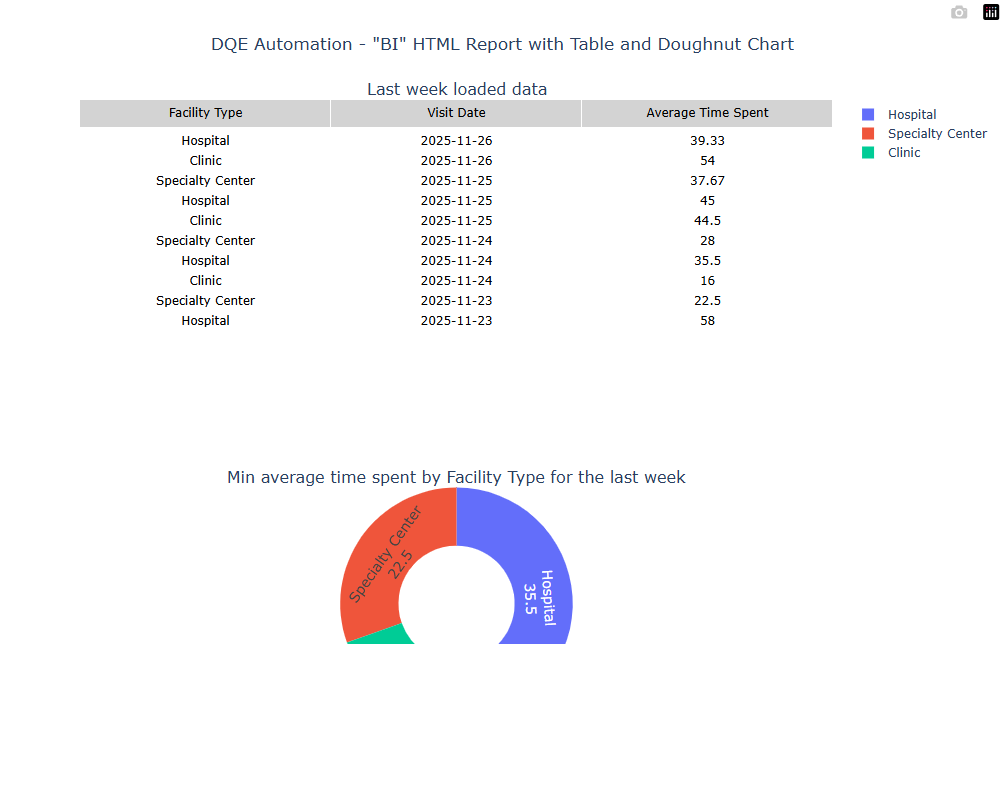
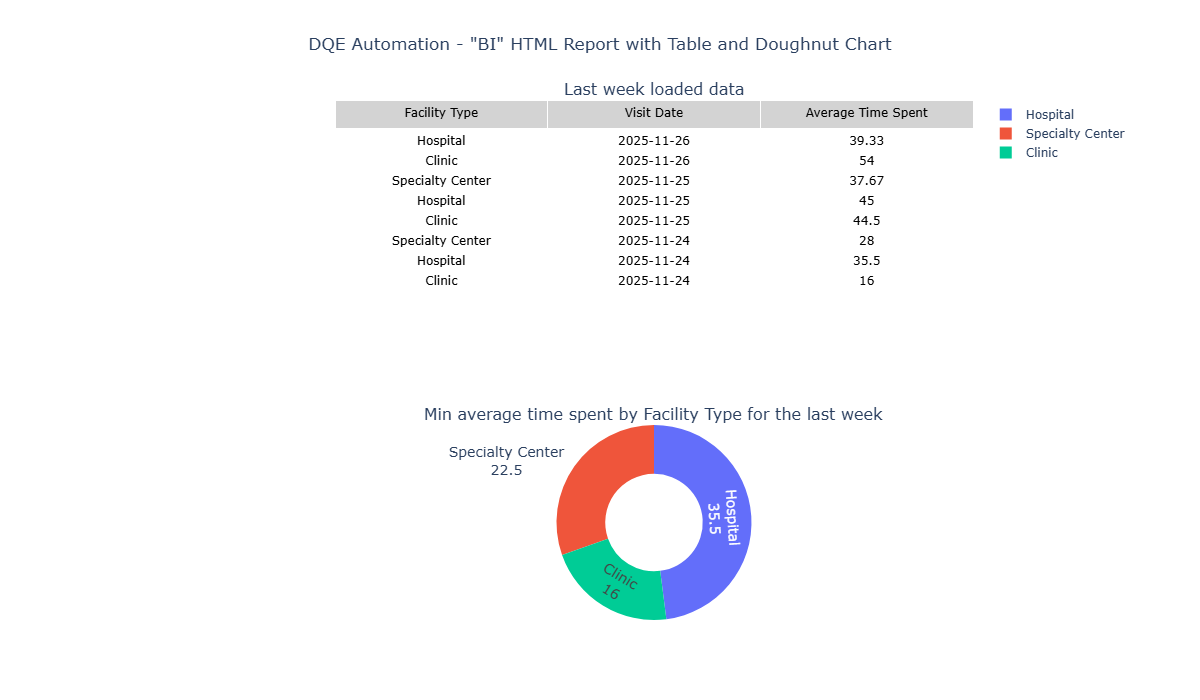
selenium7

Changed region(s): [[0.0618, 0.03, 0.988, 0.42], [0.2161, 0.57, 0.741, 0.9], [0.9263, 0.0, 1.0, 0.03]]

diff --git a/Selenium Introduction/main.py b/Selenium Introduction/main.py
@@ -10,23 +10,40 @@ from selenium.webdriver.support import expected_conditions as EC
 from selenium.webdriver import Chrome
 from selenium.webdriver.chrome.options import Options
 
+import base64
+
 GRAPH_ID = "f2be9861-78e2-4f00-aa5f-9778ee33830a"
+
+def screenshot_plotly_to_image(driver, graph, out_path):
+    data_uri = driver.execute_script("""
+        const el = arguments[0];
+        return Plotly.toImage(el, {format:'png', width:1200, height:700});
+    """, graph)
+    b64 = data_uri.split(",", 1)[1]
+    with open(out_path, "wb") as f:
+        f.write(base64.b64decode(b64))
 
 # ---------- Driver & Page ----------
 
-def init_driver(headless: bool = False) -> Tuple[webdriver.Edge, WebDriverWait]:
+def init_driver(headless: bool = False) -> Tuple[webdriver.Chrome, WebDriverWait]:
     try:
         opts = Options()
         # driver = webdriver.Edge(options=opts)
         driver = Chrome(options=opts)
+
+        driver.execute_cdp_cmd("Emulation.setDeviceMetricsOverride", {
+            "width": 1600,  # достатній розмір
+            "height": 1200,
+            "deviceScaleFactor": 1,  # без масштабування
+            "mobile": False,
+        })
         wait = WebDriverWait(driver, 20)
         return driver, wait
     except Exception as e:
         print(f"❌ Driver initialization failed: {e}")
         raise
 
-
-def open_page(driver: webdriver.Edge, report_path: str) -> None:
+def open_page(driver: webdriver.Chrome, report_path: str) -> None:
     try:
         driver.get(os.path.abspath(report_path))
     except Exception as e:
@@ -70,7 +87,7 @@ def capture(target, fallback, filename: str) -> None:
 
 # ---------- Plotly helpers ----------
 
-def js_get_pie_state(driver: webdriver.Edge, graph_el) -> Dict[str, Any]:
+def js_get_pie_state(driver: webdriver.Chrome, graph_el) -> Dict[str, Any]:
     try:
         return driver.execute_script("""
           const el = arguments[0];
@@ -91,7 +108,7 @@ def js_get_pie_state(driver: webdriver.Edge, graph_el) -> Dict[str, Any]:
         raise
 
 
-def js_set_hiddenlabels(driver: webdriver.Edge, graph_el, hidden: List[str]) -> None:
+def js_set_hiddenlabels(driver: webdriver.Chrome, graph_el, hidden: List[str]) -> None:
     try:
         driver.execute_script("""
           const el = arguments[0], hidden = arguments[1] || [];
@@ -103,7 +120,7 @@ def js_set_hiddenlabels(driver: webdriver.Edge, graph_el, hidden: List[str]) -> 
         raise
 
 
-def wait_hiddenlabels_change(driver: webdriver.Edge, graph_el, before: List[str], timeout: float = 10.0) -> None:
+def wait_hiddenlabels_change(driver: webdriver.Chrome, graph_el, before: List[str], timeout: float = 10.0) -> None:
     try:
         WebDriverWait(driver, timeout).until(
             lambda d: js_get_pie_state(d, graph_el).get("hiddenlabels", []) != before
@@ -115,7 +132,7 @@ def wait_hiddenlabels_change(driver: webdriver.Edge, graph_el, before: List[str]
 
 # ---------- Required task functions ----------
 
-def extract_table(driver: webdriver.Edge, graph) -> Dict[str, Any]:
+def extract_table(driver: webdriver.Chrome, graph) -> Dict[str, Any]:
     """
     Extract Plotly 'table' trace data if present.
     Returns {'header': [...], 'cells': [...]} or {}.
@@ -135,24 +152,28 @@ def extract_table(driver: webdriver.Edge, graph) -> Dict[str, Any]:
         print(f"❌ Failed to extract table trace: {e}")
         return {}
 
-
-def extract_doughnut_chart(driver: webdriver.Edge, graph, svg, screenshot_index: int) -> Tuple[List[List], int]:
-    """
-    Capture a screenshot and return visible (label, value) pairs of the doughnut chart at current state.
-    """
+def extract_doughnut_chart(driver, graph, svg, screenshot_index: int):
     try:
-        driver.execute_script("const s=document.querySelector('svg.main-svg'); if(s){s.style.pointerEvents='all';}")
+        driver.execute_script("""
+            const el = arguments[0];
+            if (window.Plotly && el) {
+                Plotly.relayout(el, {autosize:false, width:1200, height:700});
+            }
+        """, graph)
         time.sleep(0.2)
-        capture(svg, graph, f"screenshot{screenshot_index}.png")
+
+        out_name = f"screenshot{screenshot_index}.png"
+        screenshot_plotly_to_image(driver, graph, out_name)
+
+        print(f"📸 Saved {out_name}")
+
         state = js_get_pie_state(driver, graph)
         if not state.get("pieExists", False):
             print("⚠ No doughnut/pie trace present")
-        print(f"📸 Saved screenshot{screenshot_index}.png")
         return state.get("visiblePairs", []), screenshot_index + 1
     except Exception as e:
         print(f"❌ Failed to extract doughnut chart: {e}")
         return [], screenshot_index
-
 
 def save_doughnut_data(pairs: List[List], csv_index: int) -> int:
     """
@@ -241,6 +262,30 @@ def run(headless: bool = False, report_path: str = "report.html") -> None:
             print("✅ Driver closed")
         except Exception as e:
             print(f"⚠ Driver close failed: {e}")
+
+
+# --- Precise screenshot of an element even if partly off-screen ---
+def _make_visible_and_unclip(driver, el):
+    # 1) Прокрутити в центр viewport
+    driver.execute_script(
+        "arguments[0].scrollIntoView({block:'center', inline:'center'});", el
+    )
+    time.sleep(0.1)
+    # 2) Тимчасово прибрати overflow:hidden у предків (щоб не різало)
+    driver.execute_script("""
+    const el = arguments[0];
+    let node = el;
+    while (node && node instanceof Element) {
+        const cs = getComputedStyle(node);
+        if (cs.overflow === 'hidden' || cs.overflowX === 'hidden' || cs.overflowY === 'hidden') {
+            node.__oldOverflow = [node.style.overflow, node.style.overflowX, node.style.overflowY];
+            node.style.overflow = 'visible';
+            node.style.overflowX = 'visible';
+            node.style.overflowY = 'visible';
+        }
+        node = node.parentElement;
+    }
+    """, el)
 
 
 if __name__ == "__main__":
